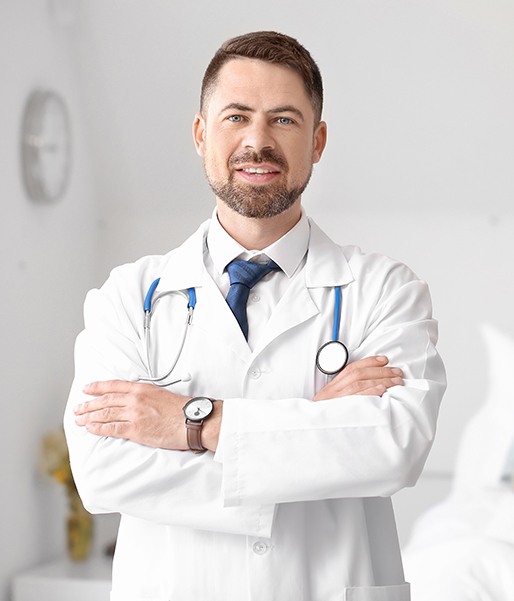
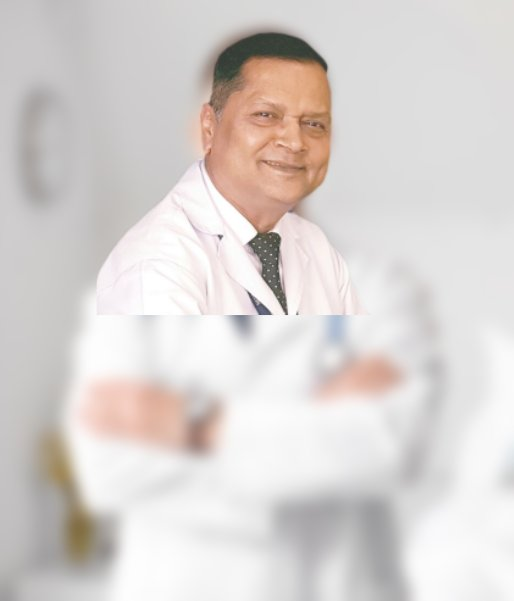
portfolio

diff --git a/index.html b/index.html
@@ -294,7 +294,7 @@
                   >
                 </div>
                 <div class="icon">
-                  <img src="assets/images/image.png" alt="" />
+                  <img src="assets/images/icon/f1.png" alt="" />
                 </div>
               </div>
             </div>
@@ -306,13 +306,13 @@
               </div>
               <div class="facilities-info">
                 <div class="info-text">
-                  <span class="sub-title"> Medical Surgery </span>
+                  <span class="sub-title"> Medical Pediatrics </span>
                   <a href="#">
-                    <h5 class="facilities-title">Eye Care Services</h5></a
+                    <h5 class="facilities-title">Dental Services</h5></a
                   >
                 </div>
                 <div class="icon">
-                  <img src="assets/images/image.png" alt="" />
+                  <img src="assets/images/icon/f2.png" alt="" />
                 </div>
               </div>
             </div>
@@ -324,13 +324,13 @@
               </div>
               <div class="facilities-info">
                 <div class="info-text">
-                  <span class="sub-title"> Medical Surgery </span>
+                  <span class="sub-title"> Medical therapy </span>
                   <a href="#">
-                    <h5 class="facilities-title">Eye Care Services</h5></a
+                    <h5 class="facilities-title">Cardiology services</h5></a
                   >
                 </div>
                 <div class="icon">
-                  <img src="assets/images/image.png" alt="" />
+                  <img src="assets/images/icon/f3.png" alt="" />
                 </div>
               </div>
             </div>
@@ -375,7 +375,7 @@
             <img src="assets/images/icon/icon1.png" alt="" />
             <h5>Neurology</h5>
             <p>Contrary to popular belief, Lorem Ipsum is not simply</p>
-            <a href="#"> Read More </a>
+            <a href="#"> Read More <i class="fa-solid fa-plus"></i> </a>
           </div>
 
           <!-- item -->
@@ -383,7 +383,7 @@
             <img src="assets/images/icon/icon2.png" alt="" />
             <h5>Neurology</h5>
             <p>Contrary to popular belief, Lorem Ipsum is not simply</p>
-            <a href="#"> Read More </a>
+            <a href="#"> Read More <i class="fa-solid fa-plus"></i> </a>
           </div>
 
           <!-- item -->
@@ -391,7 +391,7 @@
             <img src="assets/images/icon/icon3.png" alt="" />
             <h5>Neurology</h5>
             <p>Contrary to popular belief, Lorem Ipsum is not simply</p>
-            <a href="#"> Read More </a>
+            <a href="#"> Read More <i class="fa-solid fa-plus"></i> </a>
           </div>
 
           <!-- item -->
@@ -399,7 +399,7 @@
             <img src="assets/images/icon/icon4.png" alt="" />
             <h5>Neurology</h5>
             <p>Contrary to popular belief, Lorem Ipsum is not simply</p>
-            <a href="#"> Read More </a>
+            <a href="#"> Read More <i class="fa-solid fa-plus"></i></a>
           </div>
 
           <!-- item -->
@@ -407,7 +407,7 @@
             <img src="assets/images/icon/icon5.png" alt="" />
             <h5>Neurology</h5>
             <p>Contrary to popular belief, Lorem Ipsum is not simply</p>
-            <a href="#"> Read More </a>
+            <a href="#"> Read More <i class="fa-solid fa-plus"></i></a>
           </div>
 
           <!-- item -->
@@ -415,7 +415,7 @@
             <img src="assets/images/icon/icon6.png" alt="" />
             <h5>Neurology</h5>
             <p>Contrary to popular belief, Lorem Ipsum is not simply</p>
-            <a href="#"> Read More </a>
+            <a href="#"> Read More <i class="fa-solid fa-plus"></i> </a>
           </div>
 
           <!-- item -->
@@ -423,18 +423,18 @@
             <img src="assets/images/icon/icon7.png" alt="" />
             <h5>Neurology</h5>
             <p>Contrary to popular belief, Lorem Ipsum is not simply</p>
-            <a href="#"> Read More </a>
+            <a href="#"> Read More <i class="fa-solid fa-plus"></i> </a>
           </div>
           <!-- item -->
           <div class="our_service_item">
             <img src="assets/images/icon/icon5.png" alt="" />
             <h5>Neurology</h5>
             <p>Contrary to popular belief, Lorem Ipsum is not simply</p>
-            <a href="#"> Read More </a>
+            <a href="#"> Read More <i class="fa-solid fa-plus"></i> </a>
           </div>
         </div>
         <div class="view-all">
-          <a href=""> View all Services </a>
+          <a href="#"> View all Services </a>
         </div>
       </div>
     </section>
@@ -450,7 +450,7 @@
             <!-- Doctor item -->
             <div class="item">
               <div class="inner-item">
-                <img src="assets/images/1.png" alt="" />
+                <img src="assets/images/doctor.jpg" alt="" />
                 <div class="inner-text">
                   <h4 class="name">Doctor name</h4>
                   <h5>Specialities</h5>
@@ -503,6 +503,66 @@
       </div>
     </section>
 
+    <!-- Portfolio -->
+    <section class="bg-light" id="portfolio">
+      <div class="container">
+        <div class="row">
+          <div class="col-12">
+            <div class="intro">
+              <h6>Work</h6>
+              <h1>Successful projects</h1>
+              <p class="mx-auto">
+                Contrary to popular belief, Lorem Ipsum is not simply random
+                text. It has roots in a piece of classical Latin literature from
+                45 BC, making it over 2000 years old
+              </p>
+            </div>
+          </div>
+        </div>
+      </div>
+      <div id="projects-slider" class="owl-theme owl-carousel">
+        <div class="project">
+          <div class="overlay"></div>
+          <img src="img/project1.jpg" alt="" />
+          <div class="content">
+            <h2>Consulting Marketing</h2>
+            <h6>Website Design</h6>
+          </div>
+        </div>
+        <div class="project">
+          <div class="overlay"></div>
+          <img src="img/project2.jpg" alt="" />
+          <div class="content">
+            <h2>Consulting Marketing</h2>
+            <h6>Website Design</h6>
+          </div>
+        </div>
+        <div class="project">
+          <div class="overlay"></div>
+          <img src="img/project3.jpg" alt="" />
+          <div class="content">
+            <h2>Consulting Marketing</h2>
+            <h6>Website Design</h6>
+          </div>
+        </div>
+        <div class="project">
+          <div class="overlay"></div>
+          <img src="img/project4.jpg" alt="" />
+          <div class="content">
+            <h2>Consulting Marketing</h2>
+            <h6>Website Design</h6>
+          </div>
+        </div>
+        <div class="project">
+          <div class="overlay"></div>
+          <img src="img/project5.jpg" alt="" />
+          <div class="content">
+            <h2>Consulting Marketing</h2>
+            <h6>Website Design</h6>
+          </div>
+        </div>
+      </div>
+    </section>
     <!-- Jquery  -->
     <script src="assets/js/jquery.min.js"></script>
     <!-- Bootstrap 5 js -->

diff --git a/assets/css/style.css b/assets/css/style.css
@@ -461,12 +461,12 @@ p {
   transition: all 0.6s;
 }
 #facilities .facilities_item:hover .facilities_img img {
-  transform: scale(1.2);
+  transform: scale(1.1);
 }
 
-/* #facilities .facilities_item:hover .icon img {
+#facilities .facilities_item:hover .icon img {
   transform: rotateY(180deg);
-} */
+}
 
 #facilities .facilities_item .facilities-info {
   display: flex;
@@ -498,6 +498,7 @@ p {
 }
 #facilities .facilities_item .facilities-info .icon img {
   width: 66px;
+  transition: all 0.6s;
 }
 
 /* Milestorne */
@@ -563,6 +564,12 @@ p {
 #our-team .item .inner-item img {
   width: 100%;
   height: 100%;
+  border: 1px solid #eee;
+  background: #fff;
+  max-height: 472px;
+  min-height: 472px;
+  object-fit: contain;
+  object-position: 50% center;
 }
 #our-team .item .inner-item .inner-text {
   width: 80%;
@@ -739,6 +746,52 @@ p {
     left: 50%;
     transform: translate(-50%, -50%);
   }
+}
+
+/* === Portfolio === */
+
+.project {
+  position: relative;
+  overflow: hidden;
+  z-index: 2;
+}
+
+.project h6 {
+  font-weight: 400;
+}
+
+.project h6::before {
+  content: "";
+  height: 2px;
+  width: 30px;
+  display: inline-block;
+  background: var(--brand);
+  vertical-align: middle;
+  margin-right: 10px;
+}
+
+.project .overlay {
+  width: 100%;
+  height: 220px;
+  position: absolute;
+  bottom: 0;
+  left: 0;
+  background: linear-gradient(
+    180deg,
+    rgba(255, 76, 41, 0) 0%,
+    var(--dark) 100%
+  );
+}
+
+.project .content {
+  position: absolute;
+  left: 10%;
+  bottom: 10%;
+}
+
+.project h2,
+.project h6 {
+  color: #fff;
 }
 /* ============ desktop view ============ */
 @media all and (min-width: 992px) {

diff --git a/assets/js/main.js b/assets/js/main.js
@@ -6,6 +6,8 @@ $(document).ready(function () {
     items: 1,
     dots: false,
     // navText: ["PREV", "NEXT"],
+    animateIn: "fadeIn",
+    animateOut: "fadeOut",
     smartSpeed: 1000,
     autoplay: true,
     autoplayTimeout: 7000,
@@ -15,6 +17,22 @@ $(document).ready(function () {
       },
       768: {
         nav: true,
+      },
+    },
+  });
+  $(".our-team").owlCarousel({
+    loop: true,
+    margin: 10,
+    nav: true,
+    responsive: {
+      0: {
+        items: 1,
+      },
+      600: {
+        items: 2,
+      },
+      1000: {
+        items: 3,
       },
     },
   });
@@ -67,27 +85,6 @@ document.addEventListener("DOMContentLoaded", function () {
 });
 // DOMContentLoaded  end
 
-// Special Countdown
-let daysItem = document.querySelector("#days");
-let hoursItem = document.querySelector("#hours");
-let minItem = document.querySelector("#min");
-let secItem = document.querySelector("#sec");
-
-let countDown = () => {
-  let futureDate = new Date("30 July 2021");
-  let currentDate = new Date();
-  let myDate = futureDate - currentDate;
-
-  let days = Math.floor(myDate / 1000 / 60 / 60 / 24);
-  let hours = Math.floor(myDate / 1000 / 60 / 60) % 24;
-  let min = Math.floor(myDate / 1000 / 60) % 60;
-  let sec = Math.floor(myDate / 1000) % 60;
-
-  daysItem.innerHTML = days;
-  hoursItem.innerHTML = hours;
-  minItem.innerHTML = min;
-  secItem.innerHTML = sec;
-};
 
 countDown();
 
